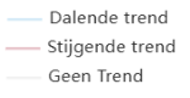
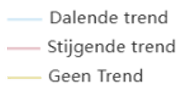
changes to reflect the new location: te weinig metingen voor een trend

Changed region(s): [[0.0263, 0.7653, 0.2368, 0.8265], [0.0263, 0.4898, 0.0526, 0.5204]]

diff --git a/frontend/src/components/graphs/GraphInfo.vue b/frontend/src/components/graphs/GraphInfo.vue
@@ -19,7 +19,7 @@
             </v-row>
             <v-row class="pb-10 pt-0" justify="center">
               <v-img
-                src="../../assets/graph_explanation.png"
+                src="../../assets/graph_explanation_2.png"
                 aspect-ratio="16/9"
                 max-width="85%"
               ></v-img>
@@ -92,7 +92,7 @@ export default {
               imageName: 'location_circles'
             },
             {
-              text: 'Trendlijnen voor gekozen trendperiode: Lowess methode (doorgetrokken lijn) en Theil Sen methode (gestippelde lijn).',
+              text: 'Trendlijnen voor gekozen trendperiode: Lowess methode (doorgetrokken lijn) en Theil Sen methode (gestippelde lijn). Als er onvoldoende metingen zijn om een trend te berekenen (de locatiepunten zijn grijze cirkels op de kaart), dan zijn die twee lijnen niet beschikbaar.',
               imageName: 'trendlines'
             },
             { text: 'Lijnen zijn aan/uit te zetten door er op te klikken.' },
@@ -137,7 +137,7 @@ export default {
           description: [
             { text: 'Trend van andere locaties binnen regio.' },
             {
-              text: 'Kleur afgestemd op trendrichting: Stijgend: roodbruin; Dalend: lichtblauw; Niet significant: grijs.',
+              text: 'Kleur afgestemd op trendrichting: Stijgend: roodbruin; Dalend: lichtblauw; Niet significant: lichtgeel.',
               imageName: 'trends'
             },
             {
